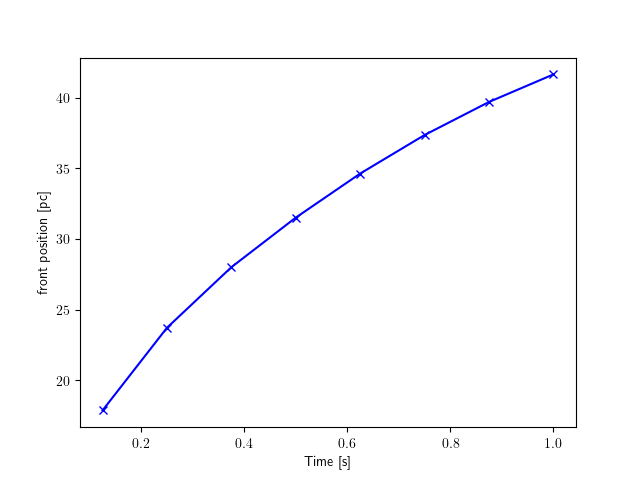
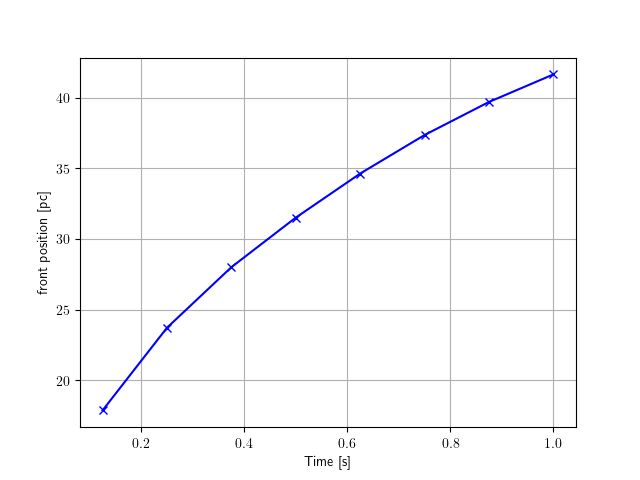
radial momentum evolution added

diff --git a/spherical1d/polytrope_1d_spherical/check.py b/spherical1d/polytrope_1d_spherical/check.py
@@ -54,12 +54,14 @@ GradPress_ref = np.array(data["PartType0"]["PressureGradient"], dtype = FloatTyp
 
 time = []
 peak_positions = []
+peak_Rad = []
 time_step = 0.125  # Remplace par ton vrai pas de temps
-
+RadialMomentum = np.empty((0,i_snap))
 #fig, ax = plt.subplots(ncols=1, nrows=1 )       
 #ax.plot(Pos_ref,Density_ref)
 #fig.savefig("test")
 #plt.show()
+
 
 
 
@@ -79,6 +81,19 @@ while True:
     Density = np.array(data["PartType0"]["Density"], dtype = FloatType)
     Velocity = np.array(data["PartType0"]["Velocities"], dtype = FloatType)[:,0]
     Uthermal = np.array(data["PartType0"]["InternalEnergy"], dtype = FloatType)
+    Volume = []
+
+    for i,r in enumerate(Pos) :
+      if i == 0 :
+        Volume.append(4./3.*np.pi*(Pos[i]**3))
+      else :
+        Volume.append(4./3.*np.pi*(Pos[i]**3 - Pos[i-1]**3))
+
+
+    Mass = Density*Volume
+    RadMom = Velocity*Mass
+
+    
     
     Accel = np.array(data["PartType0"]["Acceleration"], dtype = FloatType)[:,0]
     GradPress = np.array(data["PartType0"]["PressureGradient"], dtype = FloatType)[:,0]
@@ -87,9 +102,25 @@ while True:
     peak_index = np.argmax(Density)
     peak_position = Pos[peak_index]
 
+    # Find peak of Radial Momentum
+    peakRad_index = np.argmax(RadMom)
+    RadPos = Pos[peakRad_index]
+
     # time of the snap
     time.append(i_snap * time_step)
     peak_positions.append(peak_position)
+    peak_Rad.append(RadPos)
+    #RadialMomentum = np.append(RadialMomentum, RadMom,axis=0)
+    #RadialMomentum_list = []
+    #RadialMomentum_list.append(RadMom)
+    #RadialMomentum = np.vstack(RadialMomentum_list)
+
+    if RadialMomentum.size == 0:
+      RadialMomentum = RadMom[np.newaxis, :]  # Crée une matrice 2D avec une seule ligne
+    else:
+      RadialMomentum = np.vstack((RadialMomentum, RadMom))  # Ajoute une nouvelle ligne
+
+
 
 
     
@@ -160,14 +191,36 @@ while True:
   #  if L1_dens > DeltaMaxAllowed or L1_vel > DeltaMaxAllowed or L1_uthermal > DeltaMaxAllowed:
   #      sys.exit(1)
 
+####################################### plots ######################################
 
 # front wave evolution
 fig, ax = plt.subplots()
 ax.plot(time, peak_positions, marker='x', linestyle='-', color='b')
 ax.set_xlabel("Time [s]")
 ax.set_ylabel("front position [pc]")
-ax.grid
+ax.grid(True)
 fig.savefig(simulation_directory+"/plots/front")
+
+# Radial Momentum evolution
+fig, ax = plt.subplots()
+for i in range(RadialMomentum.shape[0]):
+    ax.plot(Pos, RadialMomentum[i, :], label=f'Time step {i}')
+
+ax.set_xlabel("Position [pc]")
+ax.set_ylabel("Radial Momentum []")
+#ax.set_title("Superposition des courbes")
+ax.legend()
+ax.grid(True)
+fig.savefig(simulation_directory+"/plots/RadialMomentum")
+
+# Peak radial momentum evolution
+fig, ax = plt.subplots()
+ax.plot(time, peak_Rad, marker='x', linestyle='-', color='b')
+ax.set_xlabel("Time [s]")
+ax.set_ylabel("Radial Momentum peak position [pc]")
+ax.grid(True)
+fig.savefig(simulation_directory+"/plots/RadialPeak")
+
 
 
 """ normal exit """
